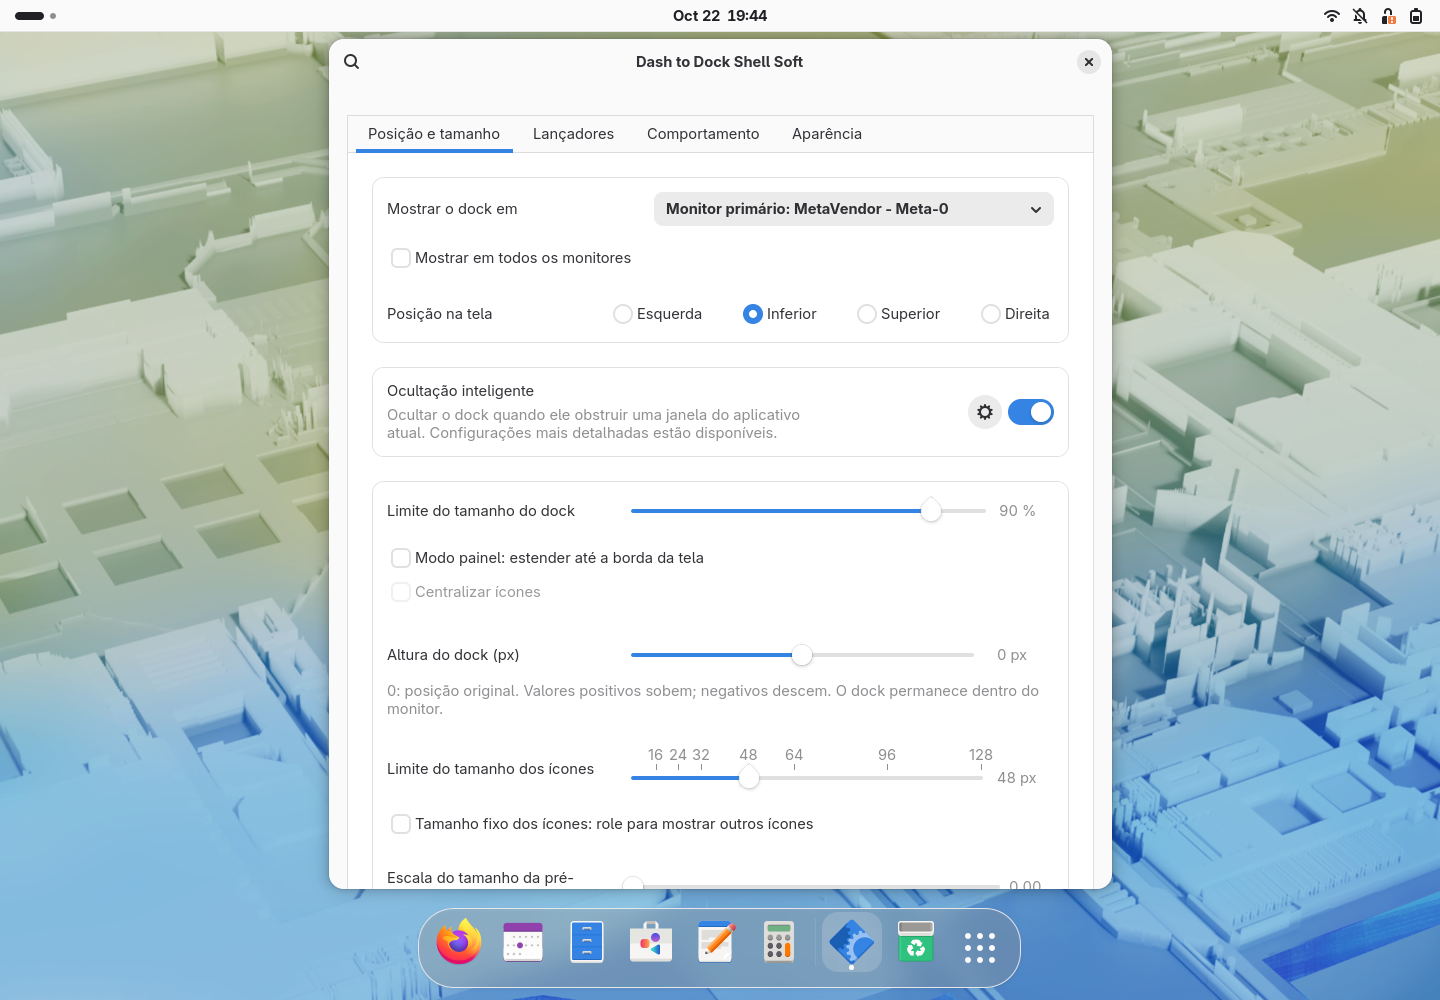
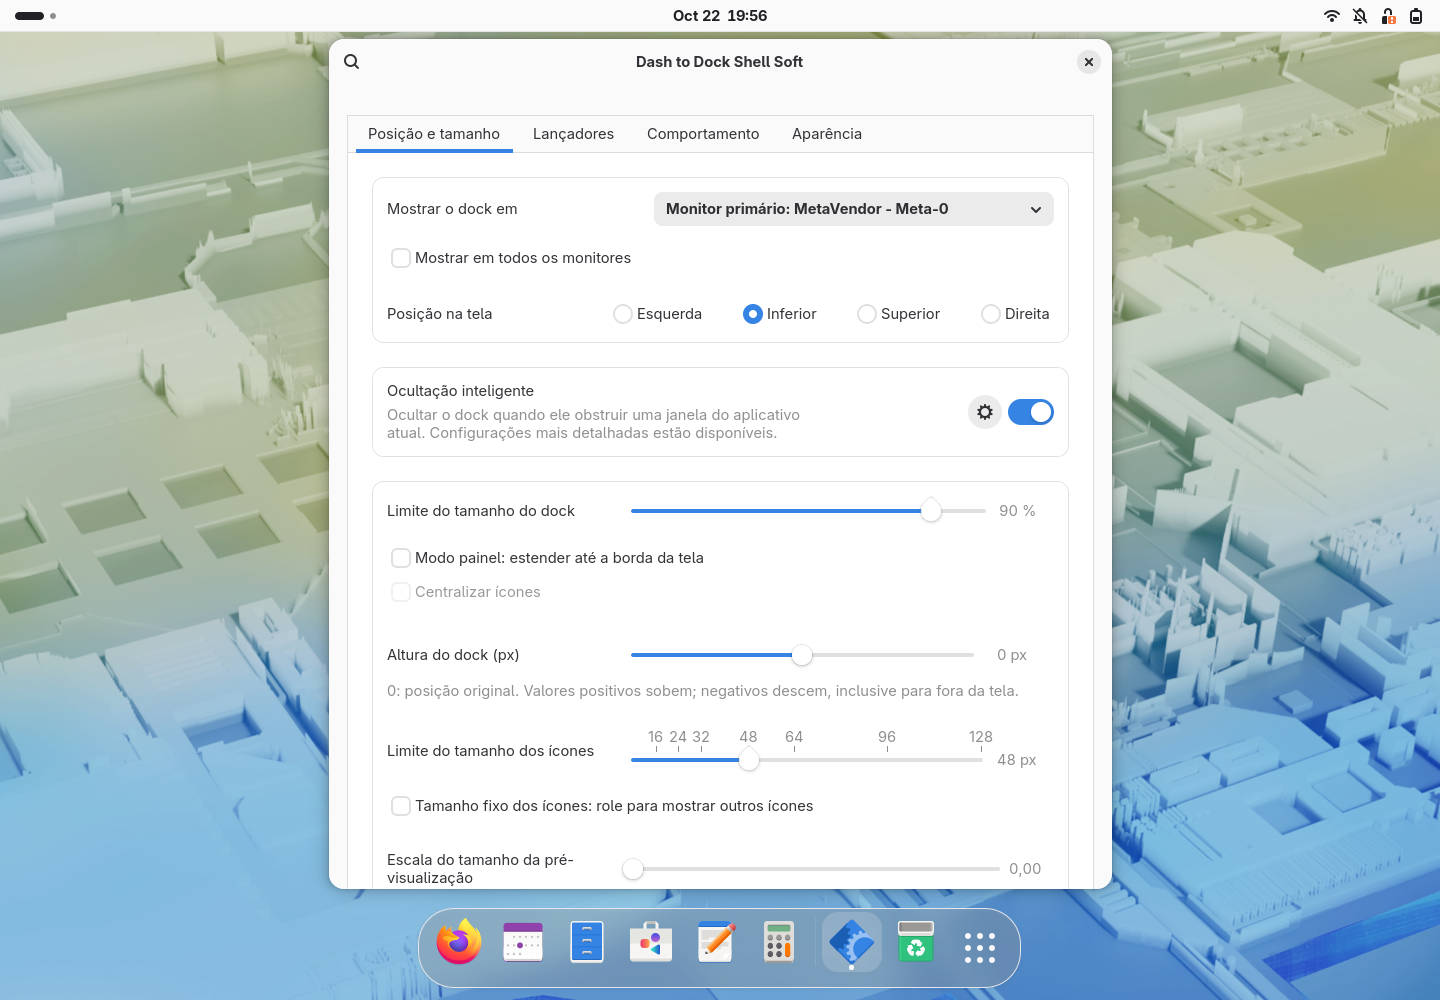
Release v4 allowing negative vertical offsets beyond monitor edges

diff --git a/docking.js b/docking.js
@@ -1358,30 +1358,16 @@ const DockedDash = GObject.registerClass({
                 this.remove_style_class_name('extended');
             }
         }
-        this._applyVerticalPosition(fixedIsEnabled);
+        this._applyVerticalPosition();
     }
 
-    _applyVerticalPosition(fixedIsEnabled) {
-        // "Height" is a vertical position adjustment, independent of the
-        // surface thickness and icon size. Use monitor bounds to avoid a
-        // workarea/strut feedback loop when the fixed dock changes position.
+    _applyVerticalPosition() {
+        // Apply to the base position recalculated above, allowing the dock to
+        // move beyond the monitor without accumulating offsets on relayout.
         const scale = St.ThemeContext.get_for_stage(global.stage).scale_factor;
         const offset = DockManager.settings.dockHeight * scale;
-        this._verticalOffset = 0;
-        if (offset !== 0) {
-            const originalY = this.y;
-            const boxHeight = this._box.height;
-            let inset = this._isHorizontal ? 0 : Math.max(0, (this.height - boxHeight) / 2);
-            if (this._position === St.Side.BOTTOM)
-                inset = -boxHeight;
-            else if (this._position === St.Side.TOP && fixedIsEnabled &&
-                Main.panel.x === this._monitor.x && Main.panel.y === this._monitor.y)
-                inset = Main.panel.height;
-            const minimumY = this._monitor.y - inset;
-            const maximumY = this._monitor.y + this._monitor.height - inset - boxHeight;
-            this.y = Math.max(minimumY, Math.min(maximumY, this.y - offset));
-            this._verticalOffset = originalY - this.y;
-        }
+        this.y -= offset;
+        this._verticalOffset = offset;
     }
 
     _updateVisibleDesktop() {
@@ -1390,14 +1376,17 @@ const DockedDash = GObject.registerClass({
 
         const {desktopIconsUsableArea} = DockManager.getDefault();
         const verticalOffset = this._verticalOffset ?? 0;
-        if (this._position === St.Side.BOTTOM)
-            desktopIconsUsableArea.setMargins(this.monitorIndex, 0, this._box.height + verticalOffset, 0, 0);
-        else if (this._position === St.Side.TOP)
-            desktopIconsUsableArea.setMargins(this.monitorIndex, this._box.height - verticalOffset, 0, 0, 0);
-        else if (this._position === St.Side.RIGHT)
+        if (this._position === St.Side.BOTTOM) {
+            desktopIconsUsableArea.setMargins(this.monitorIndex, 0,
+                Math.max(0, this._box.height + verticalOffset), 0, 0);
+        } else if (this._position === St.Side.TOP) {
+            desktopIconsUsableArea.setMargins(this.monitorIndex,
+                Math.max(0, this._box.height - verticalOffset), 0, 0, 0);
+        } else if (this._position === St.Side.RIGHT) {
             desktopIconsUsableArea.setMargins(this.monitorIndex, 0, 0, 0, this._box.width);
-        else if (this._position === St.Side.LEFT)
+        } else if (this._position === St.Side.LEFT) {
             desktopIconsUsableArea.setMargins(this.monitorIndex, 0, 0, this._box.width, 0);
+        }
     }
 
     _updateStaticBox() {

diff --git a/tests/shell-menu-headless.py b/tests/shell-menu-headless.py
@@ -252,7 +252,7 @@ def test():
         baseline = evaluate('({y:background.get_transformed_position()[1],height:background.height, '
                             'width:background.width,iconSize:dock.dash.iconSize})')
         results['vertical-position'] = []
-        for offset in [32, 120, 256, 80, 0, -64]:
+        for offset in [32, 120, 256, 80, 0, -8, -32, -64, -120, -256, 0]:
             evaluate(f'manager.settings.set_int("dock-height",{offset});')
             time.sleep(0.3)
             measurement = evaluate('({requested:manager.settings.dockHeight, '
@@ -261,17 +261,29 @@ def test():
                 'blurY:dock._themeManager._blurActor.get_transformed_position()[1], '
                 'targetY:dock._staticBox.y1, exportedY:Main.layoutManager.dashToDockStruts.monitors[dock.monitorIndex].y})')
             results['vertical-position'].append(measurement)
-            assert abs(measurement['y']-(baseline['y']-max(0,offset)))<=1
+            assert abs(measurement['y']-(baseline['y']-offset))<=1
             assert measurement['height']==baseline['height'] and measurement['width']==baseline['width']
             assert measurement['iconSize']==baseline['iconSize']
             assert abs(measurement['blurY']-measurement['y'])<=1
             assert abs(measurement['targetY']-measurement['exportedY'])<=1
+        monitor_bottom = evaluate('dock._monitor.y+dock._monitor.height')
+        assert any(m['requested'] < 0 and m['y'] >= monitor_bottom
+                   for m in results['vertical-position'])
+        evaluate('manager.settings.set_int("dock-height",-120);')
+        time.sleep(0.3)
+        for _ in range(3):
+            evaluate('dock._resetPosition();dock._updateStaticBox();')
+            time.sleep(0.1)
+            check('offscreen-position-stable', f'Math.abs(background.get_transformed_position()[1]-({baseline["y"]}+120))<=1')
         evaluate('manager.settings.set_int("dock-height",0);themeContext.scale_factor=2;')
         time.sleep(0.5)
         scaled_y = evaluate('background.get_transformed_position()[1]')
         evaluate('manager.settings.set_int("dock-height",32);')
         time.sleep(0.3)
         check('vertical-scale-2', f'Math.abs(background.get_transformed_position()[1]-({scaled_y}-64))<=1')
+        evaluate('manager.settings.set_int("dock-height",-32);')
+        time.sleep(0.3)
+        check('negative-vertical-scale-2', f'Math.abs(background.get_transformed_position()[1]-({scaled_y}+64))<=1')
         evaluate('themeContext.scale_factor=oldScale; manager.settings.set_int("dock-height",0); '
                  'manager.settings.set_enum("dock-position",3);')
         time.sleep(0.5)
@@ -288,6 +300,9 @@ def test():
         evaluate('manager.settings.set_int("dock-height",-80);')
         time.sleep(0.3)
         check('top-moves-down', f'Math.abs(background.get_transformed_position()[1]-({top_y}+80))<=1')
+        evaluate('manager.settings.set_int("dock-height",80);')
+        time.sleep(0.3)
+        check('top-moves-offscreen', f'Math.abs(background.get_transformed_position()[1]-({top_y}-80))<=1')
         evaluate('manager.settings.set_int("dock-height",0);manager.settings.set_enum("dock-position",2); '
                  'manager.settings.set_boolean("shell-menu-keep-dock-radius",false);')
         time.sleep(0.4)

diff --git a/README.md b/README.md
@@ -8,7 +8,7 @@ menus de notificações/calendário e Quick Settings do GNOME Shell.
 - **Nome:** Dash to Dock Shell Soft
 - **UUID:** `dash-to-dock-shell-soft@local`
 - **Schema:** `org.gnome.shell.extensions.dash-to-dock-shell-soft`
-- **Versão deste fork:** 3
+- **Versão deste fork:** 4
 - **Repositório:** [mcdalbu/dash-to-dock-shell-soft](https://github.com/mcdalbu/dash-to-dock-shell-soft)
 
 O código, UUID e configurações são próprios. Não substitui a instalação do
@@ -55,12 +55,14 @@ fica disponível com o estilo dos menus ativado.
 Em **Preferências → Posição e tamanho**, o controle **Altura do dock (px)**
 move o dock verticalmente, de **−256 a +256 pixels lógicos**. Valores positivos
 sobem e valores negativos descem; **0** restaura a posição original. O deslocamento
-é limitado para manter o dock dentro do monitor. O tamanho dos ícones e a espessura
+pode ultrapassar as bordas do monitor. O tamanho dos ícones e a espessura
 do fundo permanecem iguais. O controle funciona também nos docks laterais.
 
 Na versão 2 esse controle alterava a espessura do fundo. A versão 3 corrige seu
 significado e aplica o valor ao posicionamento real do dock, ao blur e à geometria
-usada para ocultação e reserva de espaço. A alteração é aplicada ao vivo.
+usada para ocultação e reserva de espaço. A versão 4 remove o limite da tela,
+permitindo que valores negativos levem o dock parcial ou totalmente para fora
+da borda inferior. A alteração é aplicada ao vivo; voltar a 0 restaura a posição.
 
 ## Estabilidade e organização das preferências
 
@@ -92,7 +94,7 @@ retos, enquanto a superfície continua arredondada. A biblioteca é opcional e n
 ## Instalar
 
 ```bash
-gnome-extensions install dash-to-dock-shell-soft@local_v3.zip
+gnome-extensions install dash-to-dock-shell-soft@local_v4.zip
 ```
 
 Encerre a sessão e entre novamente para reconhecer uma extensão nova. Depois:
@@ -117,7 +119,7 @@ make
 make check
 node tests/dock-effects.cjs
 node tests/dock-redraw-recovery.cjs
-make zip-file VERSION=3
+make zip-file VERSION=4
 ```
 
 O teste de integração inicia um GNOME Shell 50 headless em D-Bus e diretórios de
